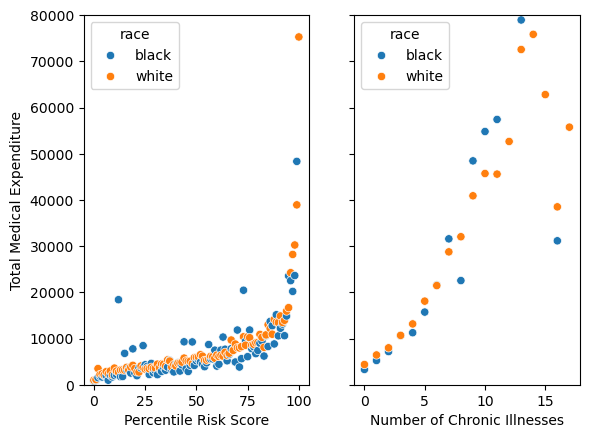
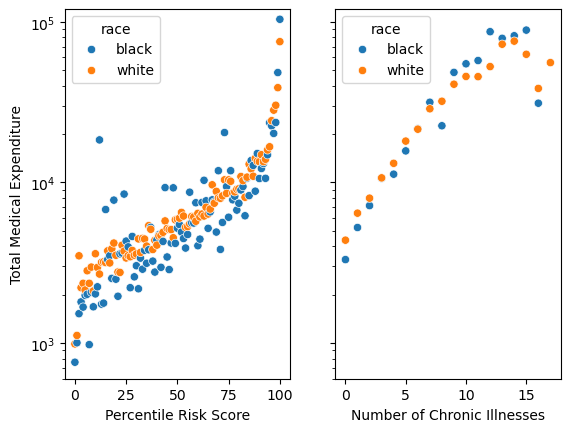
oops didnt quarto render

diff --git a/docs/posts/BP3/BP3.html b/docs/posts/BP3/BP3.html
@@ -447,7 +447,7 @@ background-size: cover;
 </div>
 </div>
 <p>This plot begins to unravel some underlying racial bias that could be present in the algorithm. As seen in the figure, the orange dots representing white patients lie on a higher curve of percentile risk score. This suggests that less sick white patients are more likely to be referred to a high-risk program than sicker black patients.</p>
-<div id="cell-6" class="cell" data-execution_count="55">
+<div id="cell-6" class="cell" data-execution_count="66">
 <div class="sourceCode cell-code" id="cb5"><pre class="sourceCode python code-with-copy"><code class="sourceCode python"><span id="cb5-1"><a href="#cb5-1" aria-hidden="true" tabindex="-1"></a>fig, axes <span class="op">=</span> plt.subplots(<span class="dv">1</span>, <span class="dv">2</span>, sharey <span class="op">=</span> <span class="va">True</span>)</span>
 <span id="cb5-2"><a href="#cb5-2" aria-hidden="true" tabindex="-1"></a></span>
 <span id="cb5-3"><a href="#cb5-3" aria-hidden="true" tabindex="-1"></a>grouped_cost_data <span class="op">=</span> pd.DataFrame(df_imp.groupby([<span class="st">'risk_percentile'</span>, <span class="st">'race'</span>])[<span class="st">'cost_t'</span>].mean())</span>
@@ -460,7 +460,8 @@ background-size: cover;
 <span id="cb5-10"><a href="#cb5-10" aria-hidden="true" tabindex="-1"></a>axes[<span class="dv">0</span>].set_xlabel(<span class="st">'Percentile Risk Score'</span>)</span>
 <span id="cb5-11"><a href="#cb5-11" aria-hidden="true" tabindex="-1"></a>axes[<span class="dv">1</span>].set_xlabel(<span class="st">'Number of Chronic Illnesses'</span>)</span>
 <span id="cb5-12"><a href="#cb5-12" aria-hidden="true" tabindex="-1"></a></span>
-<span id="cb5-13"><a href="#cb5-13" aria-hidden="true" tabindex="-1"></a>plt.ylim(<span class="dv">0</span>, <span class="dv">80000</span>)</span></code><button title="Copy to Clipboard" class="code-copy-button"><i class="bi"></i></button></pre></div>
+<span id="cb5-13"><a href="#cb5-13" aria-hidden="true" tabindex="-1"></a>plt.ylim(<span class="dv">600</span>, <span class="dv">120000</span>)</span>
+<span id="cb5-14"><a href="#cb5-14" aria-hidden="true" tabindex="-1"></a>plt.yscale(<span class="st">"log"</span>)</span></code><button title="Copy to Clipboard" class="code-copy-button"><i class="bi"></i></button></pre></div>
 <div class="cell-output cell-output-display">
 <div>
 <figure class="figure">

diff --git a/docs/index.html b/docs/index.html
@@ -267,7 +267,7 @@ window.Quarto = {
 </a>
 </div>
 </div>
-<div class="quarto-post image-right" data-index="2" data-listing-file-modified-sort="1712288206376" data-listing-reading-time-sort="3" data-listing-word-count-sort="566">
+<div class="quarto-post image-right" data-index="2" data-listing-file-modified-sort="1712288529879" data-listing-reading-time-sort="3" data-listing-word-count-sort="566">
 <div class="thumbnail">
 <p><a href="./posts/BP3/BP3.html" class="no-external"></a></p><a href="./posts/BP3/BP3.html" class="no-external">
 <p class="card-img-top"><img src="posts\BP3\BP3_files\figure-html\cell-5-output-1.png"  class="thumbnail-image card-img"/></p>
